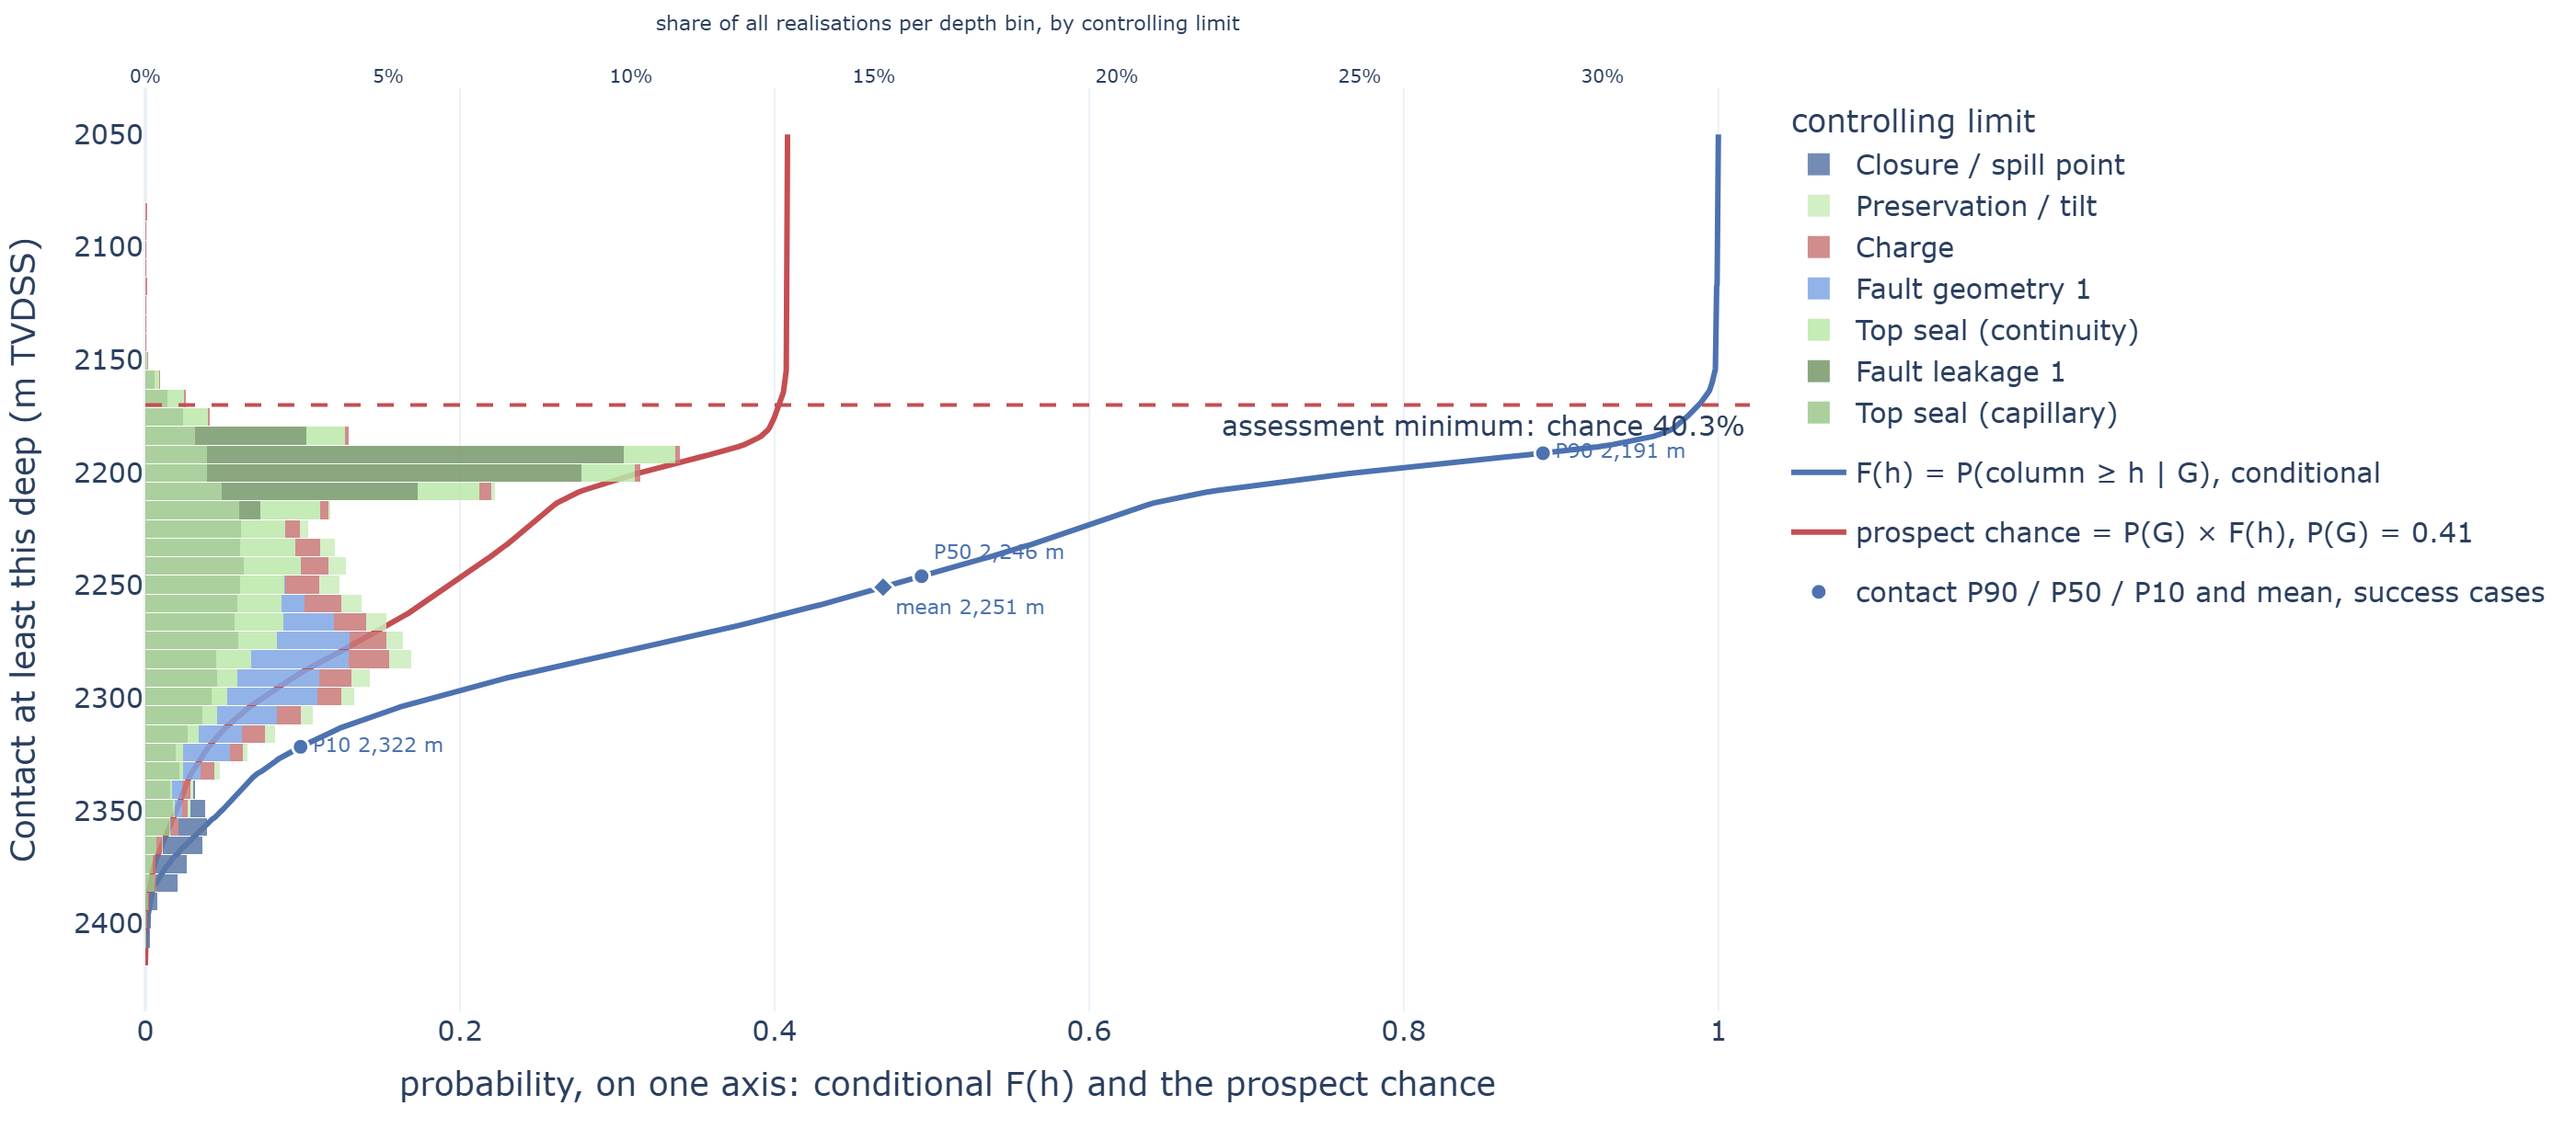
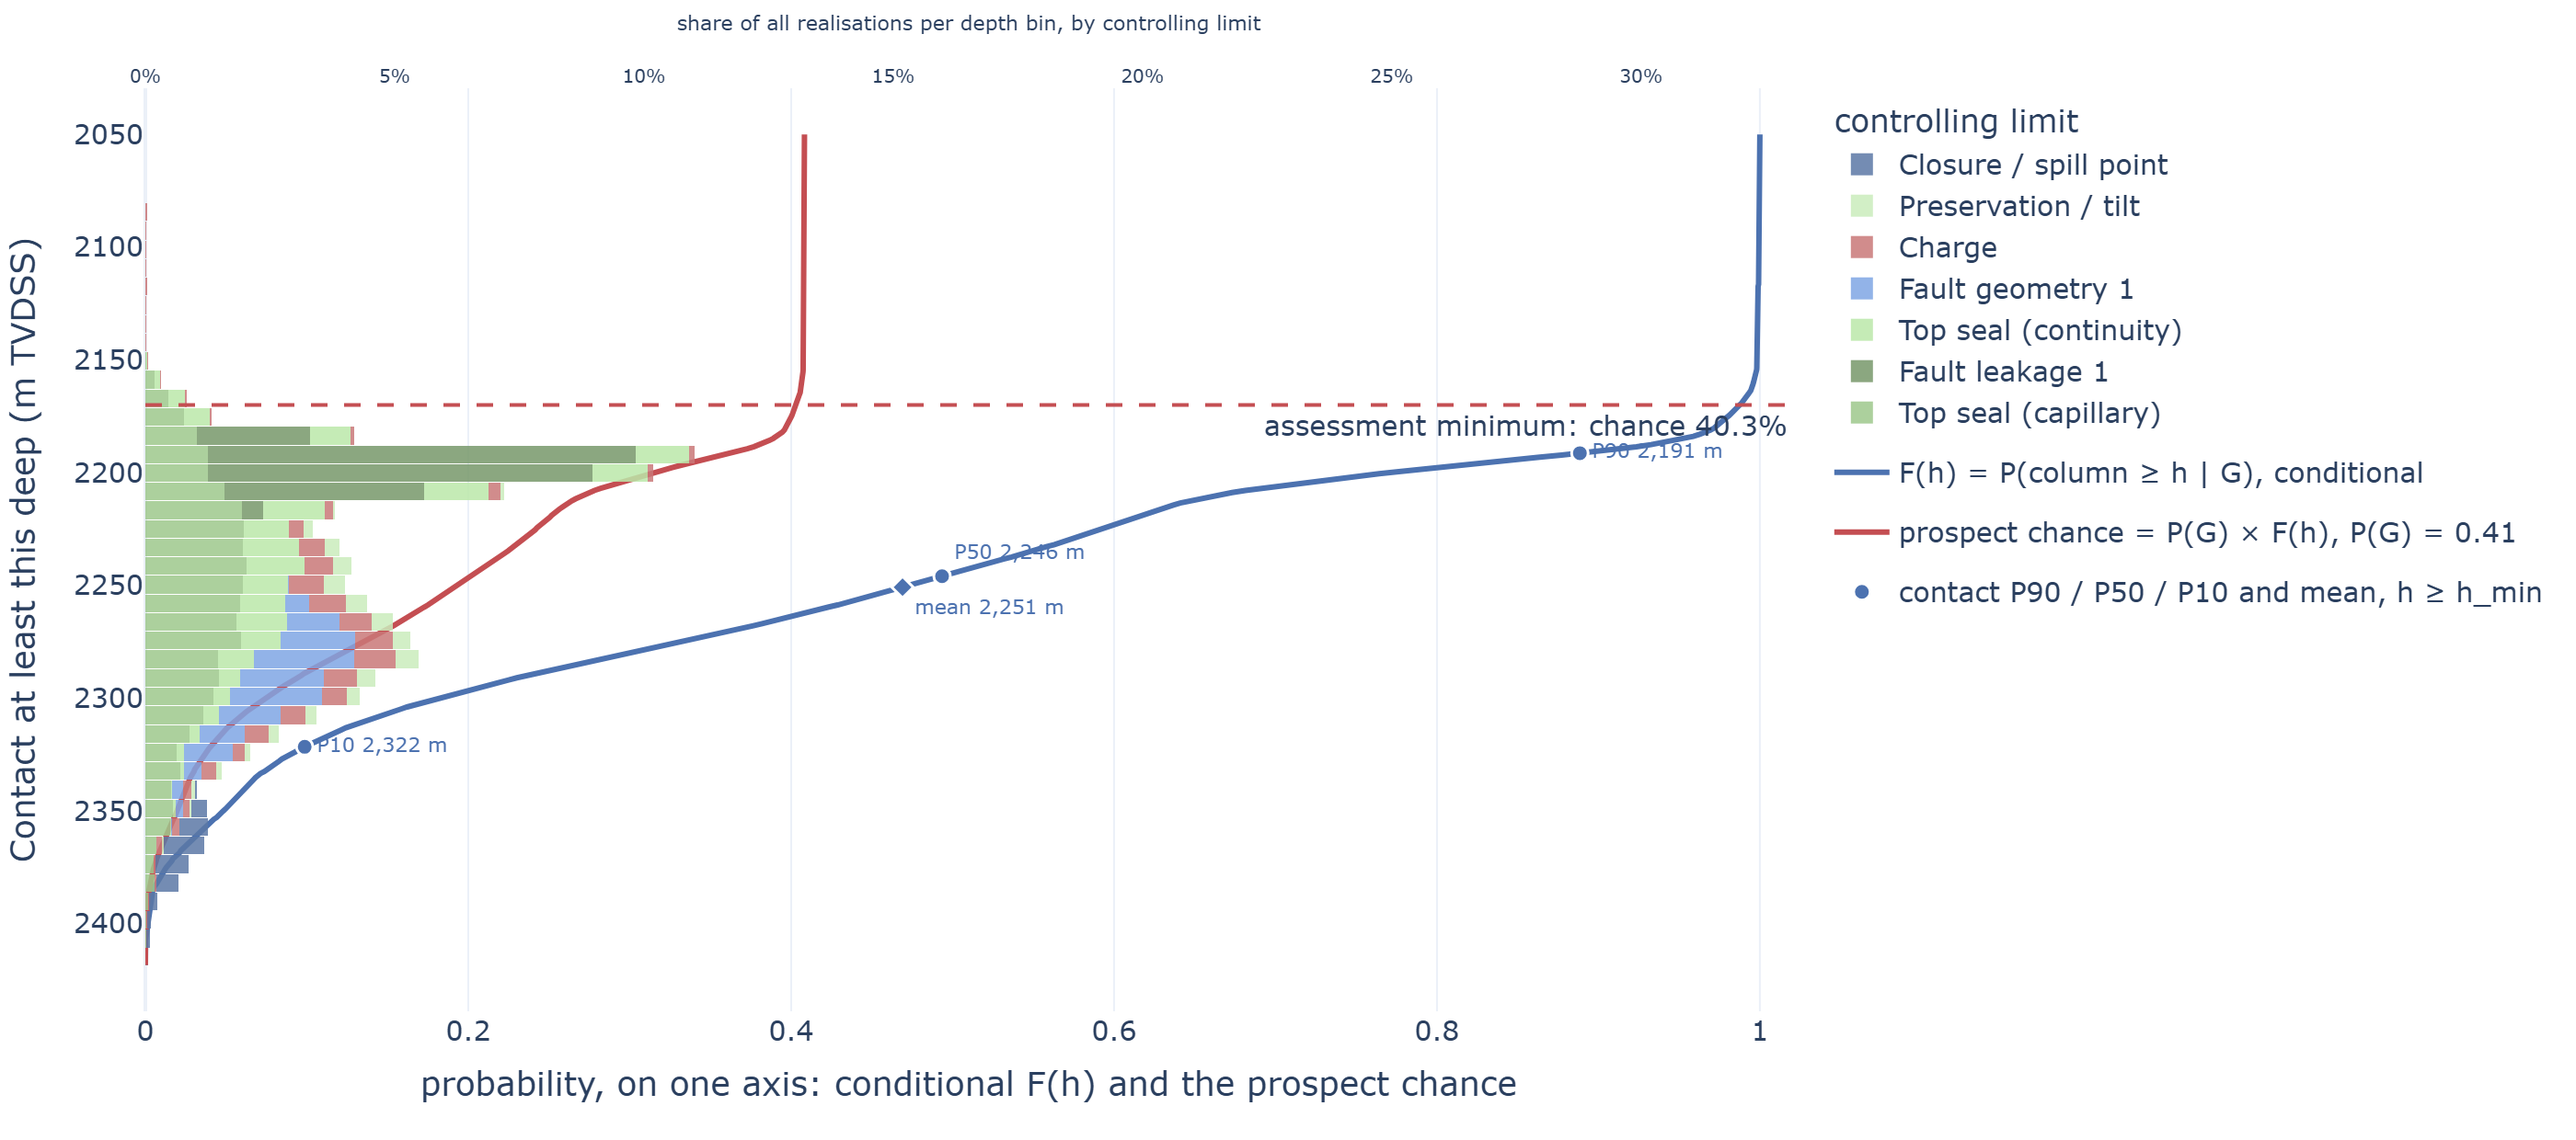
06_plotting_structure: hcwc/plotting; one limit_colours; the paper's figure manifest
Phase 6 of the clean-up (18 Sep 2026). No numerical change.

- hcwc/plotting/app/: limit_stack.py (moved from hcwc/ui, Plotly only) and colours.py, the
  one limit_colours; results_tab's definition and limit_stack's private copy are gone, and
  depth_risk_tab, limiters_tab and export import it from there instead of from results_tab,
  which ends the cross-imports between the tabs.
- hcwc/plotting/paper/manifest.py writes paper/figures/MANIFEST.md from scripts/post_images.py:
  the run's settings (prospect, seed, realisations, h_min, index, sigma, c, detection) and,
  per figure, the article's number, the file, the source script and exhibit, the caption.
- The paper figures regenerated: fig3 and post image 06 pick up the legend wording of #55
  ("h >= h_min" for "success cases"); the rest are byte-identical.
- post_images.py prints in UTF-8 with replacement, so a cp1252 console cannot stop an export.

diff --git a/scripts/post_images.py b/scripts/post_images.py
@@ -49,13 +49,20 @@ ARTICLE = [
     ("Figure 5.1.5a", "fig6_chance_before_after.png", 1400, 700),
 ]
 FIGURES_DIR = ROOT / "paper" / "figures"
+#: The number each exported file carries in paper/ARTICLE.md (the manuscript's numbering is its own).
+ARTICLE_NUMBERS = {"fig1_competing_limits.png": "Figure 2", "fig2_controlling_mechanism.png": "Figure 3",
+                   "fig3_chance_against_depth.png": "manuscript Figure 3",
+                   "fig4_dhi_update.png": "Figure 4", "fig6_chance_before_after.png": "Figure 5"}
 
 
 def main() -> None:
     warnings.filterwarnings("ignore")
+    # Captions carry ≥ and ×; a cp1252 console must not stop the export over a print.
+    sys.stdout.reconfigure(encoding="utf-8", errors="replace")
     import plotly.io as pio
     from streamlit.testing.v1 import AppTest
 
+    from hcwc.plotting.paper import manifest
     from hcwc.ui import numbering
 
     at = AppTest.from_file(str(ROOT / "app.py"), default_timeout=900)
@@ -68,6 +75,7 @@ def main() -> None:
     figures = at.session_state[numbering.FIGURES_KEY]
     OUT.mkdir(parents=True, exist_ok=True)
 
+    entries = []
     for folder, table in ((OUT, FIGURES), (FIGURES_DIR, ARTICLE)):
         for label, name, width, height in table:
             fig, caption = figures[label]
@@ -75,6 +83,25 @@ def main() -> None:
                               margin=dict(l=70, r=30, t=30, b=70))
             pio.write_image(fig, folder / name, width=width, height=height, scale=2)
             print(f"  {folder.name}/{name}  <- {label}: {caption}")
+            if folder is FIGURES_DIR:
+                entries.append(manifest.Entry(ARTICLE_NUMBERS.get(name, "-"), name,
+                                              f"`scripts/post_images.py`, the app's {label}", caption))
+
+    # ---- the manifest: number, file, source, caption and the run behind every paper figure ----
+    entries.insert(0, manifest.Entry("Figure 1", "fig0_workflow.png",
+                                     "`scripts/workflow_figure.py`, the conceptual version",
+                                     "The model as two rows: geological, the prior; DHI evidence, "
+                                     "the update; each ending in the probability of meeting the "
+                                     "threshold."))
+    entries.append(manifest.Entry("manuscript Figure 5", "fig5_truncate_vs_terminate.png",
+                                  "`scripts/paper_figures.py`, drawn from a two-limit sketch",
+                                  "Terminating versus truncating at spill."))
+    manifest.write(FIGURES_DIR / "MANIFEST.md", entries, {
+        "prospect": "the shipped default (Tiramisu-C4), `paper/figures/prospect.json`",
+        "seed": 20260825, "realisations": 10_000, "assessment minimum h_min": "120 m",
+        "DHI evidence index": 20.0, "pick sigma": "10 m", "contact attribution c": 0.36,
+        "detection": "h50 25 m, width 8 m, ceiling 0.90, false positive 0.5"})
+    print(f"  {FIGURES_DIR.name}/MANIFEST.md")
 
     # ---- the at-a-glance card: four metrics, before and after --------------------------------
     import matplotlib

diff --git a/hcwc/plotting/paper/manifest.py b/hcwc/plotting/paper/manifest.py
@@ -1,0 +1,39 @@
+"""The article's figure manifest: what each file is, where it came from, and the run behind it.
+
+Written by ``scripts/post_images.py`` to ``paper/figures/MANIFEST.md`` (Phase 6 of the clean-up,
+18 Sep 2026). Every paper figure is reproducible code with a stated seed and inputs; the
+manifest is the place a reader finds the number, the file, the caption, the source and the date
+without opening the scripts.
+"""
+from __future__ import annotations
+
+import datetime as _dt
+import pathlib
+import re
+from typing import Iterable, NamedTuple
+
+
+class Entry(NamedTuple):
+    figure: str          # the article's number, "Figure 2"
+    file: str            # the file in paper/figures/
+    source: str          # the script and the exhibit it exports, or the drawing function
+    caption: str         # the app's caption, chips stripped
+
+
+def strip_chips(caption: str) -> str:
+    """The app's captions carry a styled basis chip; the manifest carries words."""
+    text = re.sub(r"<span[^>]*>.*?</span>\s*(&nbsp;)?\s*", "", caption)
+    return " ".join(text.split())
+
+
+def write(path: pathlib.Path, entries: Iterable[Entry], settings: dict[str, object]) -> None:
+    lines = ["# Figures of the article: manifest", "",
+             f"Written {_dt.date.today().isoformat()} by `scripts/post_images.py`. Every figure below "
+             "is drawn by code from the shipped prospect at the settings stated; regenerate with the "
+             "scripts named and the same settings and the files are byte-for-byte the same.", "",
+             "## The run", "", "| setting | value |", "|---|---|"]
+    lines += [f"| {k} | {v} |" for k, v in settings.items()]
+    lines += ["", "## The figures", "", "| article | file | source | caption |", "|---|---|---|---|"]
+    for e in entries:
+        lines.append(f"| {e.figure} | `{e.file}` | {e.source} | {strip_chips(e.caption)} |")
+    path.write_text("\n".join(lines) + "\n", encoding="utf-8")

diff --git a/hcwc/ui/results_tab.py b/hcwc/ui/results_tab.py
@@ -21,7 +21,9 @@ from hcwc.core import engine, sensitivity, trust
 from hcwc.core import limits as limits_mod
 from hcwc.core.limits import Group
 from hcwc.core import pos
-from hcwc.ui import limit_stack, run, theme, trust_panel
+from hcwc.plotting.app import limit_stack
+from hcwc.plotting.app.colours import limit_colours
+from hcwc.ui import run, theme, trust_panel
 from hcwc.ui.numbering import Numbering
 
 TAB = 4
@@ -35,24 +37,6 @@ TRUST_SLOT_KEY = "_trust_slot"
 #: slice and not a fraction of the trial count: a mean of a hundred effective realisations is
 #: coarse but reportable, and twenty-seven is not.
 MIN_TORNADO_SUPPORT = 100
-
-
-def limit_colours(limit_set) -> dict[str, str]:
-    """One colour per limit: a **variation of its risk element's hue**.
-
-    Lars's rule, 25 Aug 2026: fault leakage and the seals are retention mechanisms, so they are
-    greens — but not *the* retention green, which stays reserved for the element itself. Hue says
-    which element a limit belongs to at a glance; lightness separates the limits inside it. That
-    matters because colouring purely by element left five retention limits in one indistinguishable
-    red, which defeats the point of a diagnostic whose whole job is to name mechanisms.
-    """
-    out: dict[str, str] = {}
-    for group in Group:
-        members = [name for name, g in zip(limit_set.names, limit_set.groups) if g is group]
-        for name, colour in zip(members, theme.element_shades(group.value, len(members))):
-            out[name] = colour
-    return out
-
 
 
 def _within_bin_move(result, edges, weights) -> float:

diff --git a/hcwc/plotting/app/limit_stack.py b/hcwc/plotting/app/limit_stack.py
@@ -27,6 +27,7 @@ import plotly.graph_objects as go
 
 from hcwc.core import decompose, engine
 from hcwc.core.limits import COLUMN, DEPTH, Limit, convert
+from hcwc.plotting.app.colours import limit_colours
 from hcwc.ui import theme
 
 MODES = ("Exceedance curves", "Violin", "Half violin", "Histogram", "Points")
@@ -85,7 +86,7 @@ def figure(result, *, space: str = DEPTH, mode: str = "Exceedance curves",
     # Ordering follows the basis too. Ranking the lanes geologically and then drawing them under
     # the posterior puts them in an order the figure itself contradicts.
     ranked = [name for name, _ in engine.limit_ranking(result, weights=posterior)]
-    colour_of = _limit_colours(limit_set)
+    colour_of = limit_colours(limit_set)
 
     lo, hi = window if window else default_window(result, space, apex, _spill(result, apex))
     lo, hi = min(lo, hi), max(lo, hi)
@@ -425,16 +426,6 @@ def _datums(fig, result, space, apex) -> None:
         fig.add_hline(y=y, line=dict(color="#8A8A8A", width=1, dash="dot"),
                       annotation_text=label, annotation_position="top left",
                       annotation_font_size=10)
-
-
-def _limit_colours(limit_set) -> dict[str, str]:
-    from hcwc.core.limits import Group
-    out: dict[str, str] = {}
-    for group in Group:
-        members = [n for n, g in zip(limit_set.names, limit_set.groups) if g is group]
-        for name, colour in zip(members, theme.element_shades(group.value, len(members))):
-            out[name] = colour
-    return out
 
 
 def _spill(result, apex: float) -> float | None:

diff --git a/hcwc/ui/export.py b/hcwc/ui/export.py
@@ -8,7 +8,8 @@ from hcwc.core import decompose as dc
 from hcwc.core import pos, trust
 from hcwc.io import geox, report
 from hcwc.io import wellvolpos as wvp
-from hcwc.ui import numbering, results_tab, sources, theme
+from hcwc.plotting.app.colours import limit_colours
+from hcwc.ui import numbering, sources, theme
 from hcwc.ui import run as engine_run
 from hcwc.ui.numbering import Numbering
 
@@ -201,7 +202,7 @@ def render() -> None:
                               seed=int(st.session_state.get("seed", 20260825)),
                               source_file=st.session_state.get("_loaded_name", "")),
             checks=_checks, p_geological=_p_g,
-            colours=results_tab.limit_colours(limit_set),
+            colours=limit_colours(limit_set),
             note=st.session_state.get("report_note", ""))
         st.text_area("A note for the sheet (optional)", key="report_note", height=68,
                      placeholder="One or two sentences: the seal argument, the analogue, "
@@ -225,7 +226,7 @@ def render() -> None:
                 st.session_state.get(numbering.FIGURES_KEY) or {},
                 tables=st.session_state.get(numbering.TABLES_KEY) or {},
                 checks=_checks, p_geological=_p_g,
-                colours=results_tab.limit_colours(limit_set),
+                colours=limit_colours(limit_set),
                 note=st.session_state.get("report_note", ""))
             if _missing:
                 st.warning("These figures would not render and are absent from the report "

diff --git a/hcwc/plotting/app/colours.py b/hcwc/plotting/app/colours.py
@@ -1,0 +1,25 @@
+"""One colour per limit, shared by every figure that names mechanisms."""
+from __future__ import annotations
+
+from hcwc.core.limits import Group
+from hcwc.ui import theme
+
+
+def limit_colours(limit_set) -> dict[str, str]:
+    """One colour per limit: a **variation of its risk element's hue**.
+
+    Lars's rule, 25 Aug 2026: fault leakage and the seals are retention mechanisms, so they are
+    greens -- but not *the* retention green, which stays reserved for the element itself. Hue says
+    which element a limit belongs to at a glance; lightness separates the limits inside it. That
+    matters because colouring purely by element left five retention limits in one indistinguishable
+    red, which defeats the point of a diagnostic whose whole job is to name mechanisms.
+
+    Until 18 Sep 2026 this lived in `results_tab` and a private copy in `limit_stack`, and three
+    tabs imported `results_tab` for it; one implementation here, imported by all.
+    """
+    out: dict[str, str] = {}
+    for group in Group:
+        members = [name for name, g in zip(limit_set.names, limit_set.groups) if g is group]
+        for name, colour in zip(members, theme.element_shades(group.value, len(members))):
+            out[name] = colour
+    return out

diff --git a/tests/test_app_renders.py b/tests/test_app_renders.py
@@ -769,7 +769,7 @@ class TestTheLimitStackGroupsWhatItDraws:
         _, layout = self._stack(_run(**{"stack_mode_5": mode}))
         headings = {str(a.get("text")) for a in layout.get("annotations", [])
                     if a.get("yref") == "paper"}
-        from hcwc.ui import limit_stack
+        from hcwc.plotting.app import limit_stack
         assert {limit_stack.LIMITS_GROUP, limit_stack.EVIDENCE_GROUP,
                 limit_stack.RESULT_GROUP} <= headings, f"headings found: {headings}"
 
@@ -807,7 +807,7 @@ class TestTheLimitStackGroupsWhatItDraws:
                 x = np.frombuffer(base64.b64decode(trace["x"]["bdata"]),
                                   dtype=np.dtype(trace["x"].get("dtype", "f8")))
                 # Peak-normalised into a lane of width LANE_FILL, so it spans at most that.
-                from hcwc.ui import limit_stack
+                from hcwc.plotting.app import limit_stack
                 assert (x.max() - x.min()) <= limit_stack.LANE_FILL + 1e-6
                 return
         raise AssertionError("the amplitude lane was not drawn")

diff --git a/hcwc/ui/depth_risk_tab.py b/hcwc/ui/depth_risk_tab.py
@@ -13,7 +13,8 @@ import streamlit as st
 
 from hcwc.core import decompose as dc
 from hcwc.core.decompose import ELEMENTS, ReservoirEffectiveness
-from hcwc.ui import results_tab, run, theme
+from hcwc.plotting.app.colours import limit_colours
+from hcwc.ui import run, theme
 from hcwc.ui.numbering import Numbering
 
 TAB = 4
@@ -192,7 +193,7 @@ def render(tab: int = TAB, *, with_dhi: bool = False, n: Numbering | None = None
         # One level down: the individual mechanisms inside each element, each in a variation of its
         # element's hue so the grouping stays readable at a glance. Scaled by the same element POS
         # as its parent, so a limit curve is never above the element curve it belongs to.
-        shades = results_tab.limit_colours(limit_set)
+        shades = limit_colours(limit_set)
         per_limit = dc.limit_curves_at_depth(result, d.depths_m, weights)
         for limit in limit_set.limits:
             fig.add_scatter(x=pos[limit.group] * per_limit[limit.name], y=d.depths_m,

diff --git a/tests/test_prospect_io.py b/tests/test_prospect_io.py
@@ -290,7 +290,7 @@ class TestTheAllowListMatchesTheApp:
     def test_no_exact_entry_is_dead(self):
         """`stack_space` and `stack_mode` sat here without the tab number the real keys carry, so
         they matched nothing: the settings were never saved and the entries were decoration."""
-        from hcwc.ui import limit_stack
+        from hcwc.plotting.app import limit_stack
         assert set(prospect.STACK_MODES) == set(limit_stack.MODES)
 
     def test_the_version_field_refuses_with_the_right_reason(self):

diff --git a/hcwc/ui/limiters_tab.py b/hcwc/ui/limiters_tab.py
@@ -360,7 +360,7 @@ def _render_ranking(n: Numbering, limit_set: LimitSet, n_trials: int, seed: int)
     """
     from hcwc.core import engine
     from hcwc.ui import run as engine_run
-    from hcwc.ui.results_tab import limit_colours
+    from hcwc.plotting.app.colours import limit_colours
 
     result = engine_run.run(limit_set.to_dict(), n_trials, seed)
     ranking = engine.limit_ranking(result)

diff --git a/hcwc/plotting/__init__.py b/hcwc/plotting/__init__.py
@@ -1,0 +1,1 @@
+"""Figures: `app` for the tabs, `paper` for the article (Phase 6 of the clean-up, 18 Sep 2026)."""

diff --git a/hcwc/plotting/paper/__init__.py b/hcwc/plotting/paper/__init__.py
@@ -1,0 +1,1 @@
+"""The article's figures: the manifest the export scripts write (see scripts/)."""
